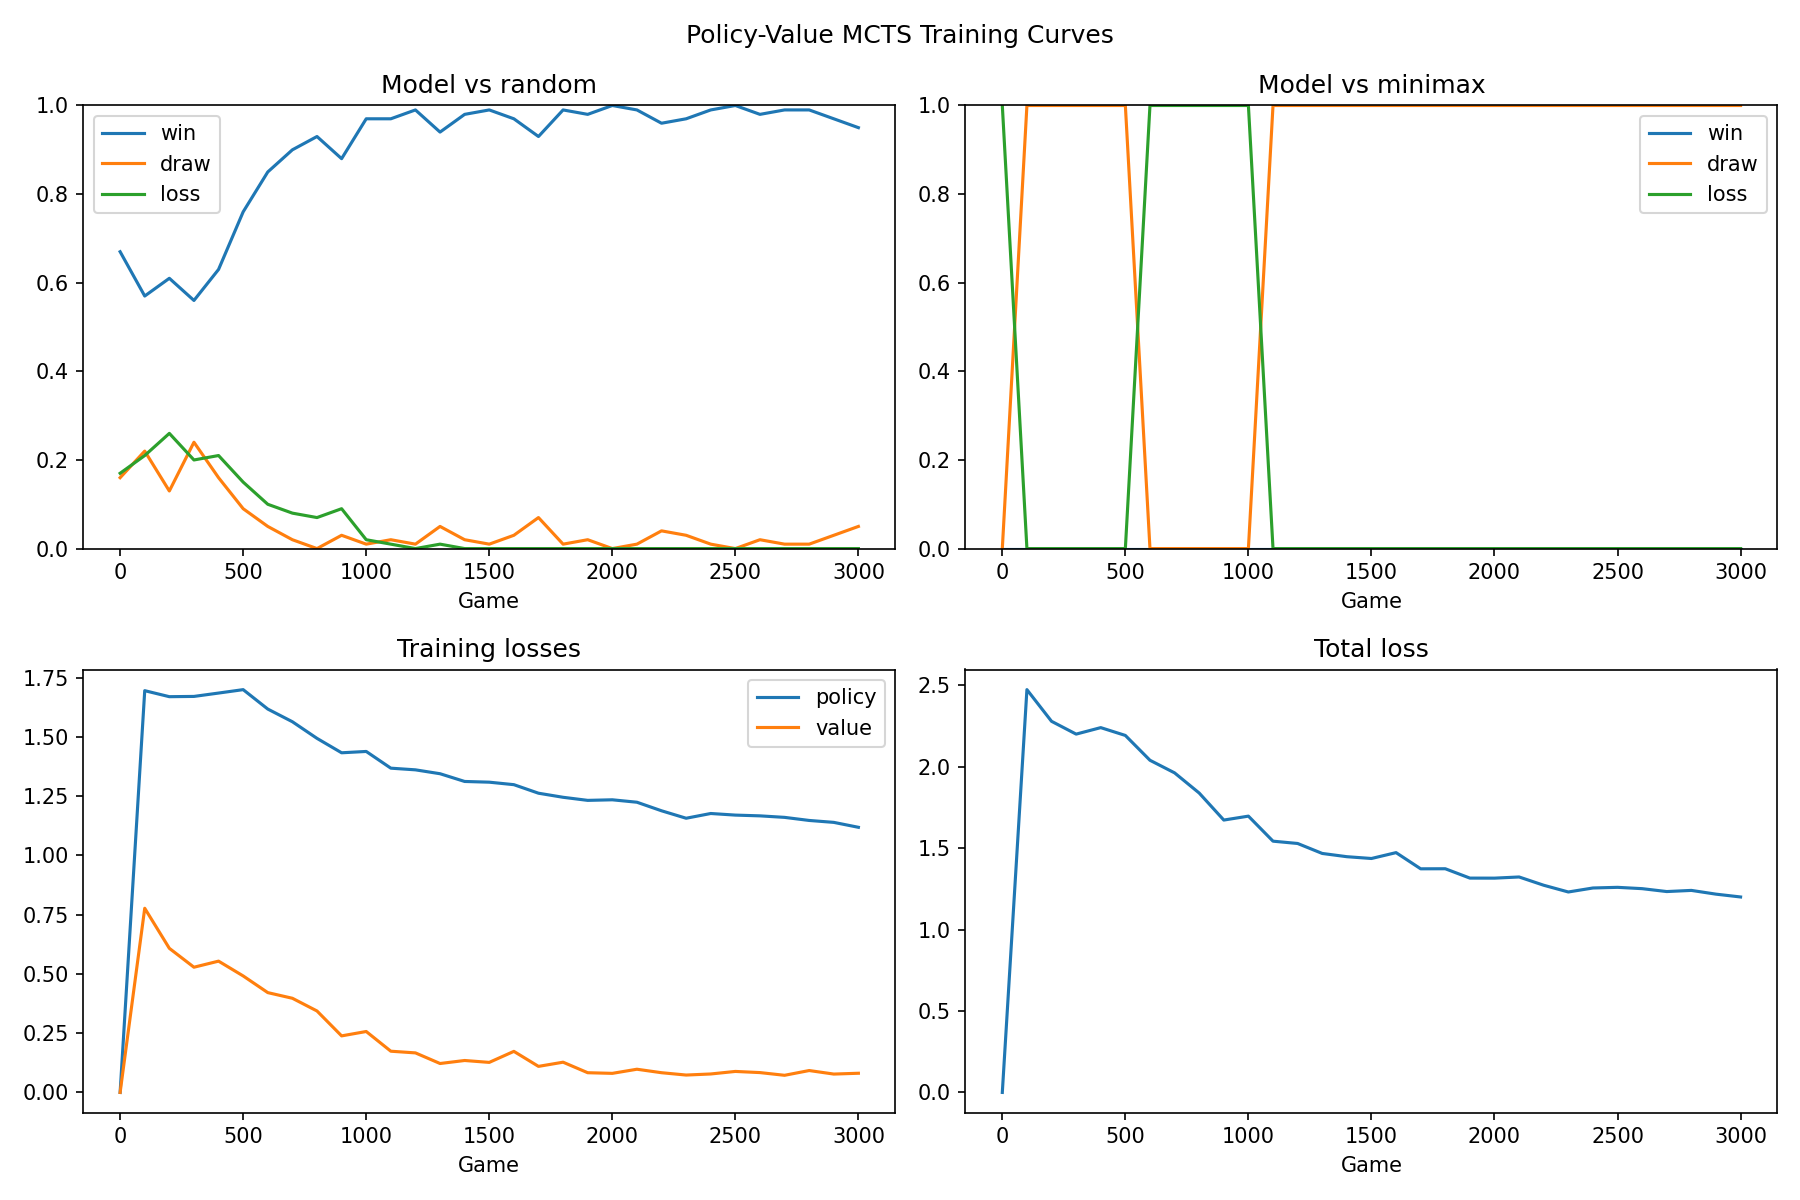
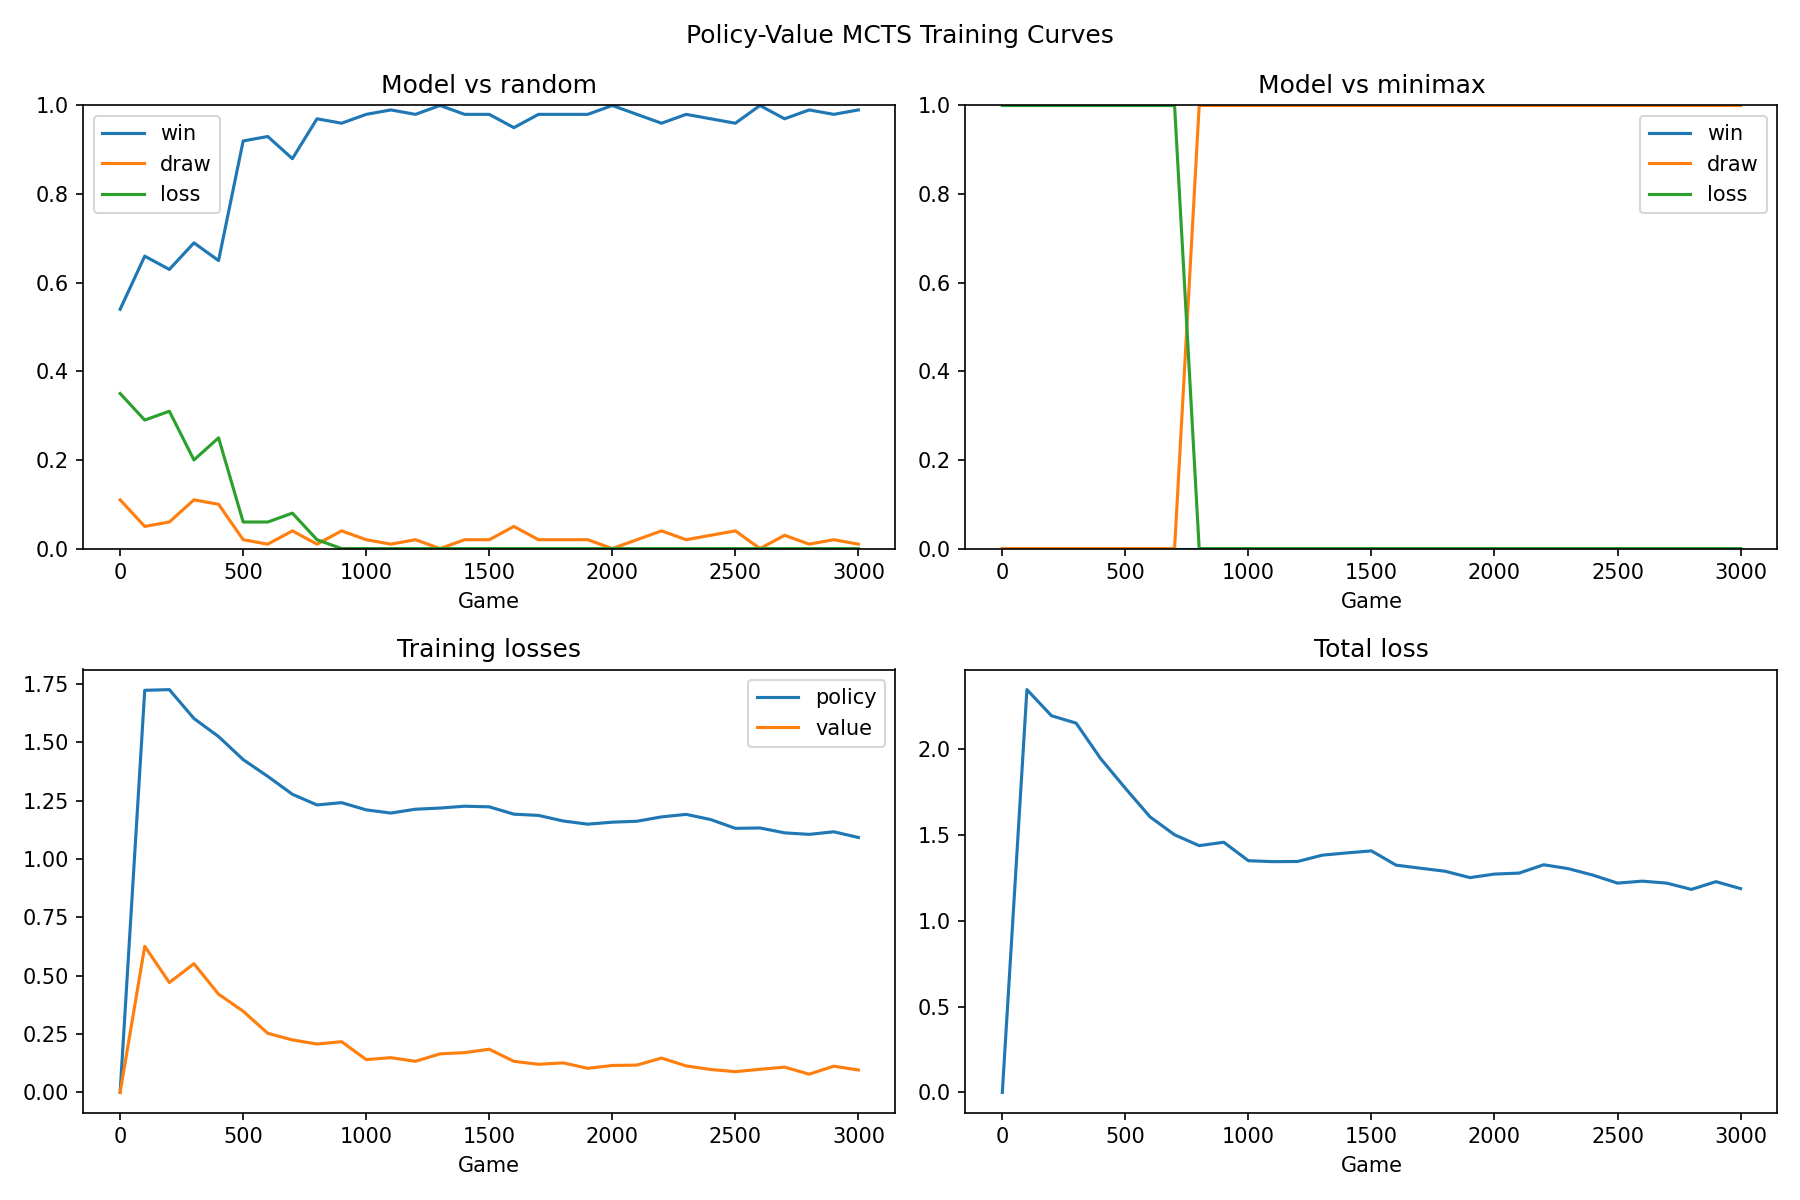
Add layer normalization and dropout to stabilize and speed up training

diff --git a/agent/policy_value_agent.py b/agent/policy_value_agent.py
@@ -31,6 +31,7 @@ class PolicyValueAgent:
         self,
         *,
         hidden_dim: int,
+        dropout: float,
         learning_rate: float,
         replay_size: int,
         batch_size: int,
@@ -46,6 +47,7 @@ class PolicyValueAgent:
         device: torch.device | None = None,
     ) -> None:
         self.batch_size = batch_size
+        self.dropout = dropout
         self.mcts_simulations = mcts_simulations
         self.mcts_eval_simulations = mcts_eval_simulations
         self.mcts_play_simulations = mcts_play_simulations
@@ -59,8 +61,8 @@ class PolicyValueAgent:
         self.recent_value_losses: list[float] = []
         self.recent_total_losses: list[float] = []
 
-        self.net = PolicyValueNet(hidden_dim).to(self.device)
-        self.inference_net = PolicyValueNet(hidden_dim).to(self.device)
+        self.net = PolicyValueNet(hidden_dim, dropout=dropout).to(self.device)
+        self.inference_net = PolicyValueNet(hidden_dim, dropout=dropout).to(self.device)
         self.inference_net.load_state_dict(self.net.state_dict())
         self.net.eval()
         self.inference_net.eval()
@@ -299,6 +301,7 @@ class PolicyValueAgent:
         payload: dict = {
             "policy_value_state_dict": self.inference_net.state_dict(),
             "hidden_dim": self.inference_net.trunk[0].out_features,
+            "dropout": self.dropout,
             "architecture": ARCHITECTURE_NAME,
             "mcts_play_simulations": self.mcts_play_simulations,
             "c_puct": self.mcts.c_puct,
@@ -323,6 +326,7 @@ class PolicyValueAgent:
         hidden_dim = int(checkpoint["hidden_dim"])
         agent = cls(
             hidden_dim=hidden_dim,
+            dropout=float(checkpoint.get("dropout", 0.1)),
             learning_rate=1e-4,
             replay_size=1,
             batch_size=1,

diff --git a/agent/model.py b/agent/model.py
@@ -5,18 +5,22 @@ from torch import nn
 
 
 class PolicyValueNet(nn.Module):
-    def __init__(self, hidden_dim: int = 128) -> None:
+    def __init__(self, hidden_dim: int = 128, dropout: float = 0.1) -> None:
         super().__init__()
-        self.trunk = nn.Sequential(
-            nn.Linear(9, hidden_dim),
-            nn.ReLU(),
-            nn.Linear(hidden_dim, hidden_dim),
-            nn.ReLU(),
-            nn.Linear(hidden_dim, hidden_dim),
-            nn.ReLU(),
-            nn.Linear(hidden_dim, hidden_dim),
-            nn.ReLU(),
-        )
+        layers: list[nn.Module] = []
+        in_dim = 9
+        for _ in range(4):
+            layers.extend(
+                [
+                    nn.Linear(in_dim, hidden_dim),
+                    nn.LayerNorm(hidden_dim),
+                    nn.ReLU(),
+                ]
+            )
+            if dropout > 0:
+                layers.append(nn.Dropout(dropout))
+            in_dim = hidden_dim
+        self.trunk = nn.Sequential(*layers)
         self.policy_head = nn.Linear(hidden_dim, 9)
         self.value_head = nn.Linear(hidden_dim, 1)
 

diff --git a/train.py b/train.py
@@ -117,6 +117,7 @@ def train(config: TrainConfig = DEFAULT_CONFIG) -> None:
     minimax_opponent = MinimaxOpponent()
     agent = PolicyValueAgent(
         hidden_dim=config.hidden_dim,
+        dropout=config.dropout,
         learning_rate=config.learning_rate,
         replay_size=config.replay_size,
         batch_size=config.batch_size,

diff --git a/config.py b/config.py
@@ -55,6 +55,7 @@ class TrainConfig:
     eval_games: int = 100
     rolling_window: int = 100
     hidden_dim: int = 128
+    dropout: float = 0.1
     grad_clip: float = 1.0
     ema_decay: float = 0.999
     early_stop_evals: int = 10000

diff --git a/README.md b/README.md
@@ -64,6 +64,7 @@ Edit `config.py` to change hyperparameters. All fields on `TrainConfig`:
 | `eval_games` | 100 | Games per random/minimax eval batch |
 | `rolling_window` | 100 | Window for logged training loss and reward |
 | `hidden_dim` | 128 | Policy-value network width |
+| `dropout` | 0.1 | Dropout in trunk during training (0 disables; inference uses eval mode, so dropout is off) |
 | `grad_clip` | 1.0 | Gradient norm clip |
 | `ema_decay` | 0.999 | EMA decay for inference network |
 | `early_stop_evals` | 10000 | Stop if eval score does not improve for this many evals |
@@ -140,8 +141,10 @@ Here $s$ is the **state**: the board encoded from the current player’s perspec
 
 The network reads $s$ and outputs:
 
-- **Policy** $p(a|s)$: Probability (prior) over legal moves $a$ in state $s$
-- **Value** $V(s)$: Expected outcome for the current player in state $s$ on the win / draw / loss scale above
+- **Policy** $p(a|s)$ — probability (prior) over legal moves $a$ in state $s$
+- **Value** $V(s)$ — expected outcome for the current player in state $s$ on the win / draw / loss scale above
+
+The trunk has four blocks, each **Linear → LayerNorm → ReLU → Dropout**. LayerNorm stabilizes activations across the hidden units for each board state. Dropout (rate `dropout` in `config.py`, default 0.1) regularizes training only; MCTS and play use the inference network in eval mode, so dropout is disabled at test time.
 
 ### MCTS
 
@@ -171,7 +174,7 @@ $$
 
 ## Results
 
-The plots in `output/learning_curves.png` and rows in `output/metrics.csv` are from the latest run with current `config.py` defaults: **3,000** self-play games, `seed=42`, `eval_every=100`, `expert_sample_ratio=0` (no pretrain), `mcts_simulations=15`, and `mcts_eval_simulations=0`.
+The plots in `output/learning_curves.png` and rows in `output/metrics.csv` are from the latest run with current `config.py` defaults: **3,000** self-play games, `seed=42`, `eval_every=100`, `expert_sample_ratio=0` (no pretrain), `mcts_simulations=15`, `mcts_eval_simulations=0`, and a trunk with **LayerNorm** and **dropout=0.1**.
 
 ![Policy-value MCTS training curves](output/learning_curves.png)
 
@@ -179,20 +182,20 @@ The plots in `output/learning_curves.png` and rows in `output/metrics.csv` are f
 
 | Phase | Win vs random | Draw vs random | Loss vs random | Draw vs minimax | Loss vs minimax |
 |:------|:-------------:|:--------------:|:--------------:|:---------------:|:---------------:|
-| Start (game 0) | 67% | 16% | 17% | 0% | 100% |
-| Mid (game 500) | 76% | 9% | 15% | **100%** | 0% |
-| Late (game 1200) | **99%** | 1% | 0% | **100%** | 0% |
-| Final (game 3000) | 95% | 5% | 0% | **100%** | **0%** |
+| Start (game 0) | 54% | 11% | 35% | 0% | 100% |
+| Mid (game 500) | 92% | 2% | 6% | 0% | 100% |
+| Late (game 1200) | 98% | 2% | 0% | **100%** | 0% |
+| Final (game 3000) | 99% | 1% | 0% | **100%** | **0%** |
 
-Against random, the agent reaches high win rates by mid-training and keeps `loss_rate_random` near zero at the end. Against perfect minimax, `draw_rate_minimax` is already **100%** by game 100 in this run; there is a brief regression around games 600–1000 where `loss_rate_minimax` spikes again before stabilizing. A draw against perfect play is the best possible outcome at tic-tac-toe scale.
+Against random, win rate rises through mid-training and `loss_rate_random` reaches **0%** by game 1000. Against perfect minimax, `draw_rate_minimax` reaches **100%** around game 800 and stays there; a draw is the best possible outcome at tic-tac-toe scale.
 
 ### Loss curves
 
 Training losses fall over self-play (game 100 → game 3000):
 
-- **Policy loss**: ~1.70 → ~1.12
-- **Value loss**: ~0.78 → ~0.08
-- **Total loss**: ~2.47 → ~1.20
+- **Policy loss**: ~1.72 → ~1.09
+- **Value loss**: ~0.63 → ~0.10
+- **Total loss**: ~2.35 → ~1.19
 
 The value head converges faster than the policy head because win / draw / loss labels (+1 / 0 / −1) are a simpler target than full MCTS visit distributions.
 
